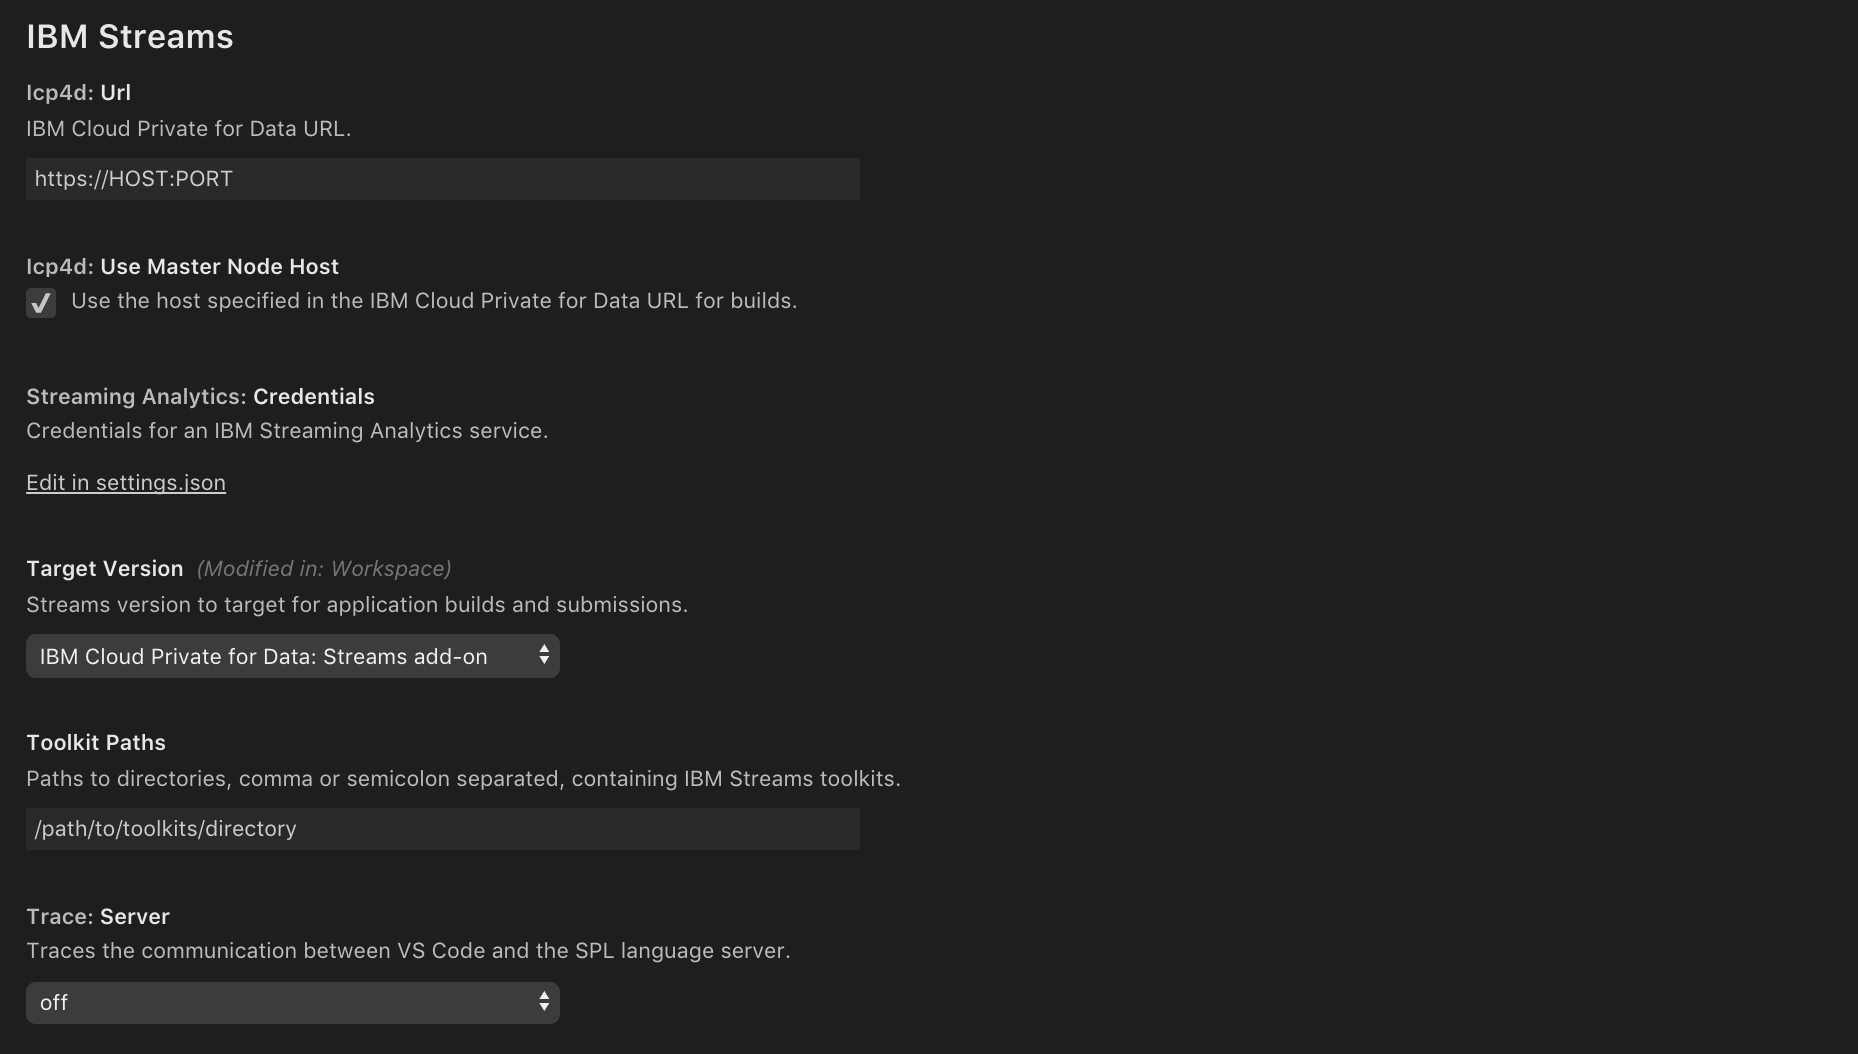
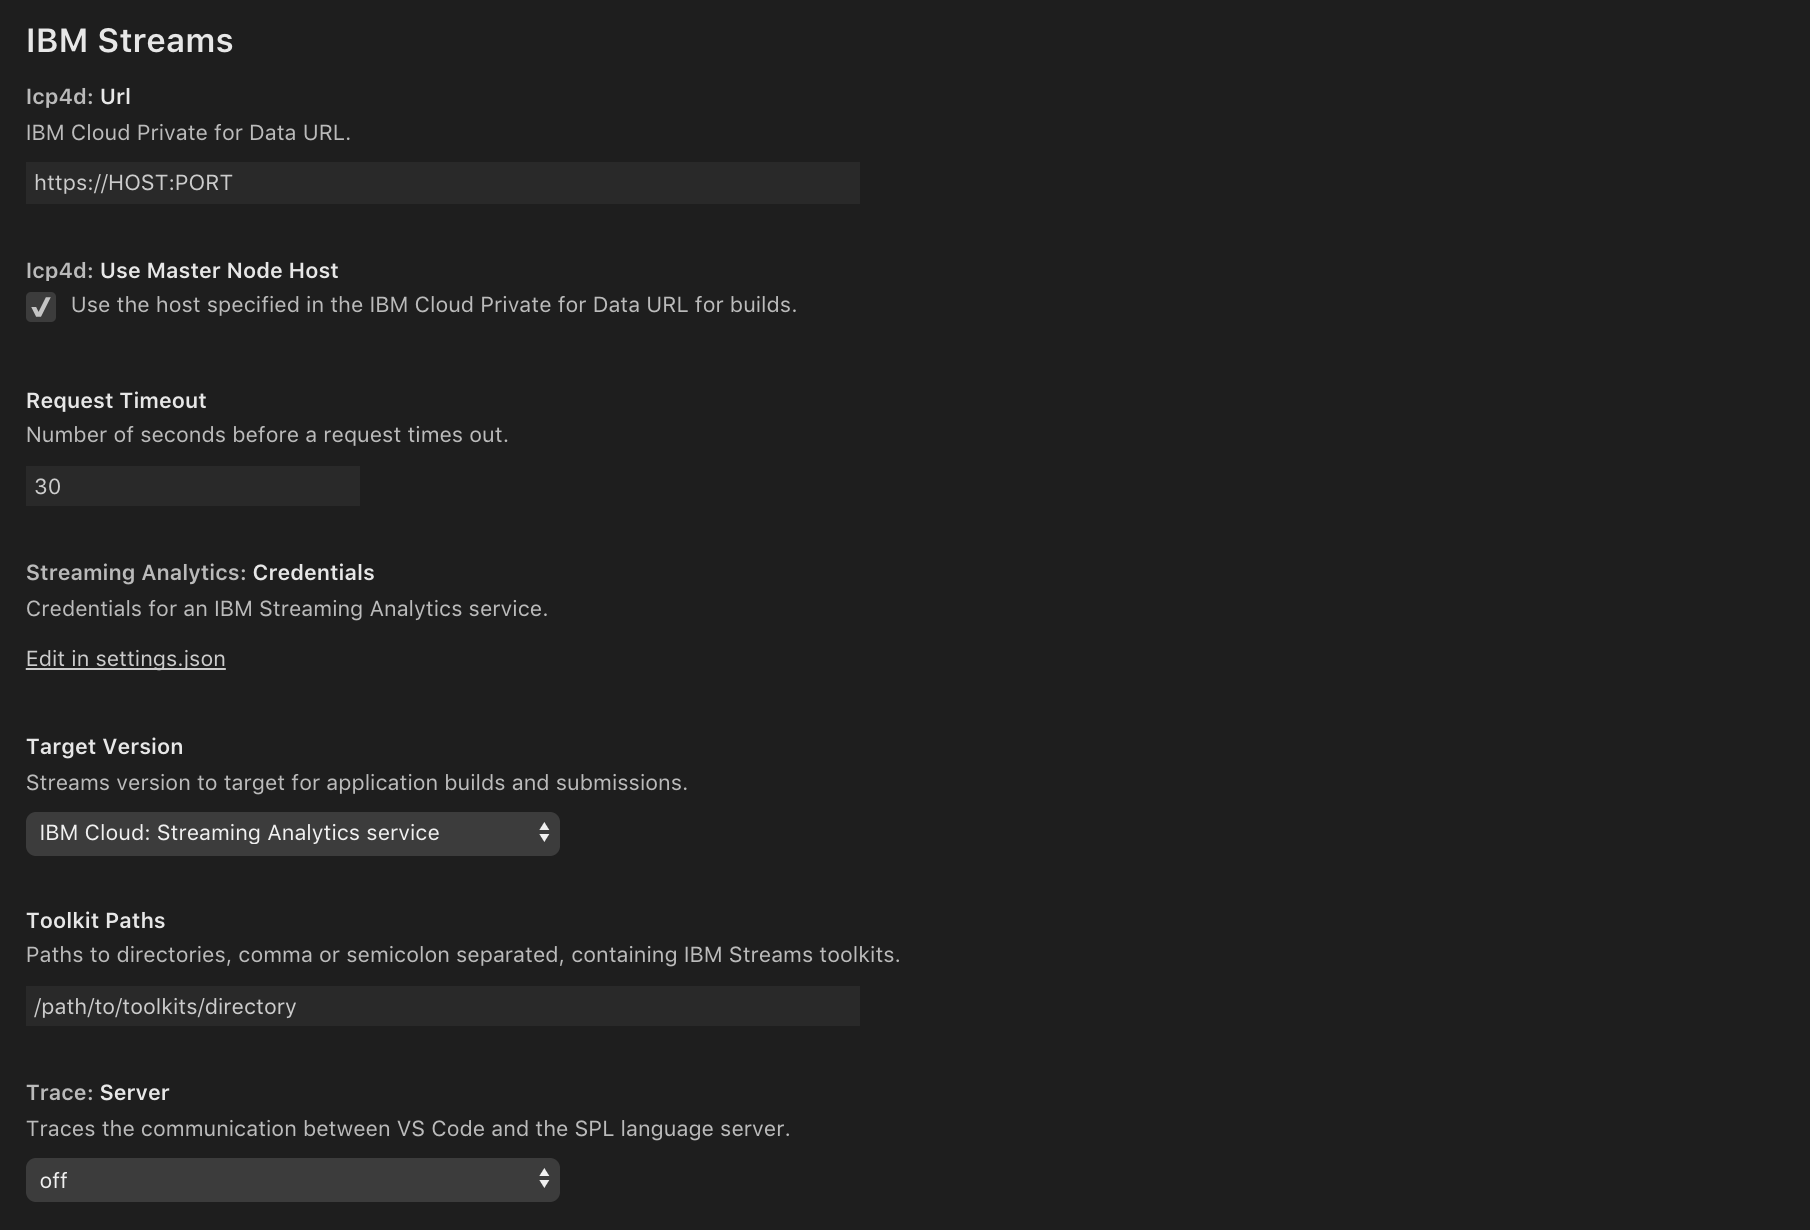
Miscellaneous build fixes
- Safe type handling for URL endpoints
- Support configurable request timeouts
- Disable remote-redux-devtools
- Migrate old settings

diff --git a/src/utils/configuration.ts b/src/utils/configuration.ts
@@ -19,6 +19,7 @@ export default class Configuration {
         this.context = context;
 
         this.customizeWorkbench();
+        this.migrateOldSettings();
 
         // Store initial settings
         const initialSettings = this.getSettingsSnapshot();
@@ -46,12 +47,41 @@ export default class Configuration {
     }
 
     /**
+     * Migrate old settings that have updated names
+     */
+    private static migrateOldSettings(): void {
+        const settingsMap = {
+            'ibm-streams.streamingAnalyticsCredentials': {
+                name: Settings.STREAMING_ANALYTICS_CREDENTIALS,
+                default: null
+            },
+            'ibm-streams.toolkitsPath': {
+                name: Settings.TOOLKIT_PATHS,
+                default: Settings.TOOLKIT_PATHS_DEFAULT
+            },
+            'spl.trace.server': {
+                name: Settings.TRACE_SERVER,
+                default: Settings.TRACE_SERVER_DEFAULT
+            }
+        };
+        _.forEach(settingsMap, (newSetting: any, oldName: string) => {
+            const oldSettingValue = this.getSetting(oldName);
+            const newSettingValue = this.getSetting(newSetting.name);
+            if (oldSettingValue && _.isEqual(newSettingValue, newSetting.default)) {
+                this.setSetting(newSetting.name, this.getSetting(oldName));
+                this.setSetting(oldName, null);
+            }
+        });
+    }
+
+    /**
      * Get a snapshot of the configuration settings
      */
     private static getSettingsSnapshot(): object {
         return {
             [Settings.ICP4D_URL]: this.getSetting(Settings.ICP4D_URL),
             [Settings.ICP4D_USE_MASTER_NODE_HOST]: this.getSetting(Settings.ICP4D_USE_MASTER_NODE_HOST),
+            [Settings.REQUEST_TIMEOUT]: this.getSetting(Settings.REQUEST_TIMEOUT),
             [Settings.STREAMING_ANALYTICS_CREDENTIALS]: this.getSetting(Settings.STREAMING_ANALYTICS_CREDENTIALS),
             [Settings.TARGET_VERSION]: this.getSetting(Settings.TARGET_VERSION),
             [Settings.TOOLKIT_PATHS]: this.getSetting(Settings.TOOLKIT_PATHS),
@@ -73,6 +103,8 @@ export default class Configuration {
                 changedSettingName = Settings.ICP4D_URL;
             } else if (event.affectsConfiguration(Settings.ICP4D_USE_MASTER_NODE_HOST)) {
                 changedSettingName = Settings.ICP4D_USE_MASTER_NODE_HOST;
+            } else if (event.affectsConfiguration(Settings.REQUEST_TIMEOUT)) {
+                changedSettingName = Settings.REQUEST_TIMEOUT;
             } else if (event.affectsConfiguration(Settings.STREAMING_ANALYTICS_CREDENTIALS)) {
                 changedSettingName = Settings.STREAMING_ANALYTICS_CREDENTIALS;
             } else if (event.affectsConfiguration(Settings.TARGET_VERSION)) {

diff --git a/src/build/index.ts b/src/build/index.ts
@@ -13,7 +13,7 @@ import LintHandlerRegistry from './lint-handler-registry';
 import LintHandler from './LintHandler';
 import MessageHandlerRegistry from './message-handler-registry';
 import MessageHandler from './MessageHandler';
-import { SplBuilder } from './v4/spl-build-common';
+import { SplBuilder, SplBuildCommonV4 } from './v4/spl-build-common';
 import {
     checkIcp4dHostExists,
     executeCallbackFn,
@@ -33,7 +33,7 @@ import {
     submitApplicationsFromBundleFiles
 } from './v5/actions';
 import getStore from './v5/redux-store/configure-store';
-import { SourceArchiveUtils, StateSelector, StreamsToolkitsUtils, StreamsUtils } from './v5/util';
+import { SourceArchiveUtils, StateSelector, StreamsToolkitsUtils, StreamsUtils, StreamsRestUtils } from './v5/util';
 
 /**
  * Handles Streams builds and submissions
@@ -65,6 +65,10 @@ export default class StreamsBuild {
         this._apiVersion = Configuration.getSetting(Settings.TARGET_VERSION);
 
         this._originator = { originator: 'vscode', version: packageJson.version, type: 'spl' };
+
+        const timeout = Configuration.getSetting(Settings.REQUEST_TIMEOUT);
+        StreamsRestUtils.setTimeout(timeout);
+        SplBuildCommonV4.setTimeout(timeout);
 
         this._storeSubscription = getStore().subscribe(() => {
             if (inDebugMode()) {
@@ -124,6 +128,12 @@ export default class StreamsBuild {
             if (event.affectsConfiguration(Settings.ICP4D_USE_MASTER_NODE_HOST)) {
                 const useHostSetting = Configuration.getSetting(Settings.ICP4D_USE_MASTER_NODE_HOST);
                 getStore().dispatch(setUseIcp4dMasterNodeHost(useHostSetting));
+            }
+
+            if (event.affectsConfiguration(Settings.ICP4D_USE_MASTER_NODE_HOST)) {
+                const timeoutSetting = Configuration.getSetting(Settings.REQUEST_TIMEOUT);
+                StreamsRestUtils.setTimeout(timeoutSetting);
+                SplBuildCommonV4.setTimeout(timeoutSetting);
             }
 
             if (event.affectsConfiguration(Settings.STREAMING_ANALYTICS_CREDENTIALS)) {

diff --git a/src/build/v5/redux-store/configure-store.js b/src/build/v5/redux-store/configure-store.js
@@ -1,6 +1,6 @@
 import { createStore, applyMiddleware, compose } from 'redux';
 import { createEpicMiddleware } from 'redux-observable';
-import { composeWithDevTools } from 'remote-redux-devtools';
+// import { composeWithDevTools } from 'remote-redux-devtools';
 import { inDebugMode } from '../../../utils';
 
 import rootEpic from '../epics';
@@ -10,7 +10,7 @@ const epicMiddleware = createEpicMiddleware();
 
 let store;
 
-const composeEnhancers = inDebugMode() && composeWithDevTools ? composeWithDevTools({ hostname: 'localhost', port: 8000, realtime: true }) : compose;
+const composeEnhancers = compose; // inDebugMode() && composeWithDevTools ? composeWithDevTools({ hostname: 'localhost', port: 8000, realtime: true }) : compose;
 
 const addLoggingToDispatch = (s) => {
   const rawDispatch = s.dispatch;

diff --git a/src/utils/settings.ts b/src/utils/settings.ts
@@ -14,6 +14,11 @@ export const ICP4D_URL = 'ibm-streams.icp4d.url';
 export const ICP4D_USE_MASTER_NODE_HOST = 'ibm-streams.icp4d.useMasterNodeHost';
 
 /**
+ * Number of seconds before a request times out
+ */
+export const REQUEST_TIMEOUT = 'ibm-streams.requestTimeout';
+
+/**
  * Credentials for an IBM Streaming Analytics service
  */
 export const STREAMING_ANALYTICS_CREDENTIALS = 'ibm-streams.streamingAnalytics.credentials';
@@ -45,3 +50,8 @@ export const TOOLKIT_PATHS_DEFAULT = '/path/to/toolkits/directory';
  * Traces the communication between VS Code and the SPL language server
  */
 export const TRACE_SERVER = 'ibm-streams.trace.server';
+
+/**
+ * Default value for the trace.server setting
+ */
+export const TRACE_SERVER_DEFAULT = 'off';

diff --git a/src/build/v5/util/state-selectors.js b/src/build/v5/util/state-selectors.js
@@ -258,10 +258,14 @@ const getStreamsJmxUrl = createSelector(
 );
 
 const convertUrl = (icp4dUrlString, endpointUrlString) => {
-  const icp4dUrl = new URL(icp4dUrlString);
-  const streamsRestUrl = new URL(endpointUrlString);
-  streamsRestUrl.hostname = icp4dUrl.hostname;
-  return streamsRestUrl.toString();
+  try {
+    const icp4dUrl = new URL(icp4dUrlString);
+    const streamsRestUrl = new URL(endpointUrlString);
+    streamsRestUrl.hostname = icp4dUrl.hostname;
+    return streamsRestUrl.toString();
+  } catch (err) {
+    return endpointUrlString;
+  }
 };
 
 const StateSelector = {

diff --git a/src/build/v5/util/streams-rest-v5.js b/src/build/v5/util/streams-rest-v5.js
@@ -12,7 +12,6 @@ const baseRequestOptions = {
   method: 'GET',
   json: true,
   gzip: true,
-  timeout: 60000,
   agentOptions: {
     rejectUnauthorized: false
   },
@@ -25,6 +24,10 @@ const baseRequestOptions = {
 };
 
 const baseRequest = request.defaults(baseRequestOptions);
+
+function setTimeout(timeoutInSeconds) {
+  baseRequest.defaults.timeout = timeoutInSeconds * 1000;
+}
 
 /**
  *  StreamsRestUtils.build
@@ -447,7 +450,8 @@ const StreamsRestUtils = {
   build,
   artifact,
   toolkit,
-  icp4d
+  icp4d,
+  setTimeout
 };
 
 export default StreamsRestUtils;

diff --git a/src/build/v4/spl-build-common.d.ts b/src/build/v4/spl-build-common.d.ts
@@ -15,3 +15,7 @@ export class SplBuilder {
     public openStreamingAnalyticsConsole(streamingAnalyticsCredentials: string, callback: Function): void;
     public openCloudDashboard(callback: Function): void;
 }
+
+export class SplBuildCommonV4 {
+    public static setTimeout(timeoutInSeconds: number): void;
+}

diff --git a/src/build/v4/spl-build-common.js b/src/build/v4/spl-build-common.js
@@ -799,3 +799,9 @@ export class SplBuilder {
     return {};
   }
 }
+
+export class SplBuildCommonV4 {
+  static setTimeout(timeoutInSeconds) {
+    request.defaults.timeout = timeoutInSeconds * 1000;
+  }
+};

diff --git a/README.md b/README.md
@@ -100,8 +100,9 @@ Name | Description | Default
 --- | --- | ---
 `ibm-streams.icp4d.url` | *(string)* Specifies the URL for an IBM Cloud Private for Data instance. | `https://HOST:PORT`
 `ibm-streams.icp4d.useMasterNodeHost` | *(boolean)* Specifies whether to use the host specified in the IBM Cloud Private for Data URL for builds. | `true`
+`ibm-streams.requestTimeout` | *(number)* Number of seconds before a request times out. | `30`
 `ibm-streams.streamingAnalytics.credentials` | *(object)* Specifies the credentials for an IBM Streaming Analytics service. | `null`
-`ibm-streams.targetVersion` | *(string)* Specifies the Streams version to target for application builds and submissions.<br><ul><li>`IBM Cloud: Streaming Analytics service`</li><li>`IBM Cloud Private for Data: Streams add-on`</li></ul> | `IBM Cloud Private for Data: Streams add-on`
+`ibm-streams.targetVersion` | *(string)* Specifies the Streams version to target for application builds and submissions.<br><ul><li>`IBM Cloud: Streaming Analytics service`</li><li>`IBM Cloud Private for Data: Streams add-on`</li></ul> | `IBM Cloud: Streaming Analytics service`
 `ibm-streams.toolkitPaths` | *(string)* Specifies paths to directories, comma or semicolon separated, containing IBM Streams toolkits. | `/path/to/toolkits/directory`
 `ibm-streams.trace.server` | *(string)* Traces the communication between VS Code and the SPL language server.<br><ul><li>`off`: tracing turned off</li><li>`verbose`: tracing turned on</li></ul> | `off`
 
